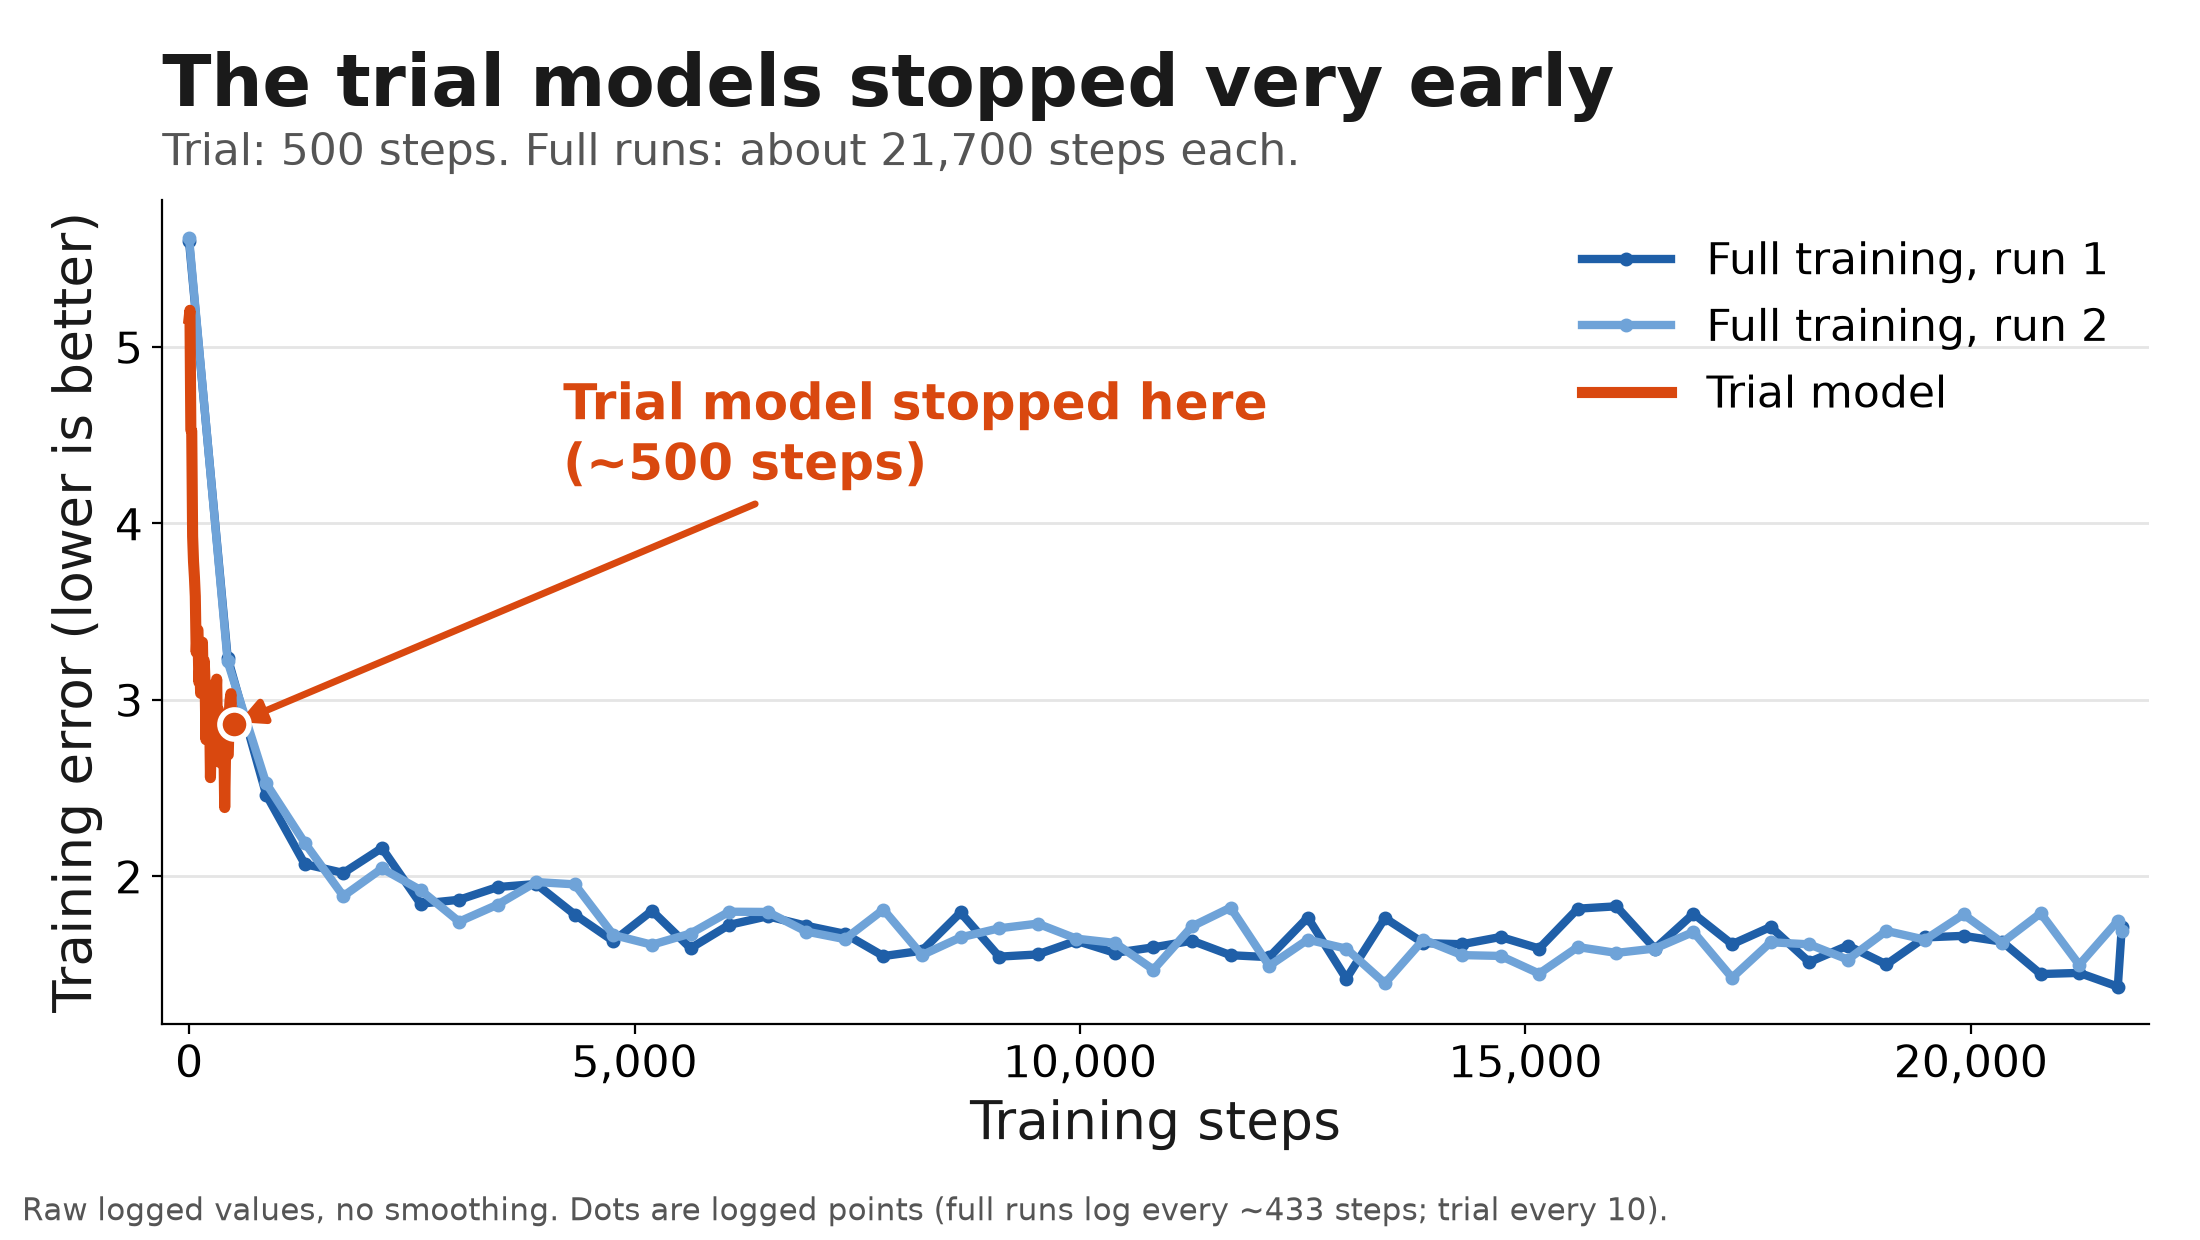
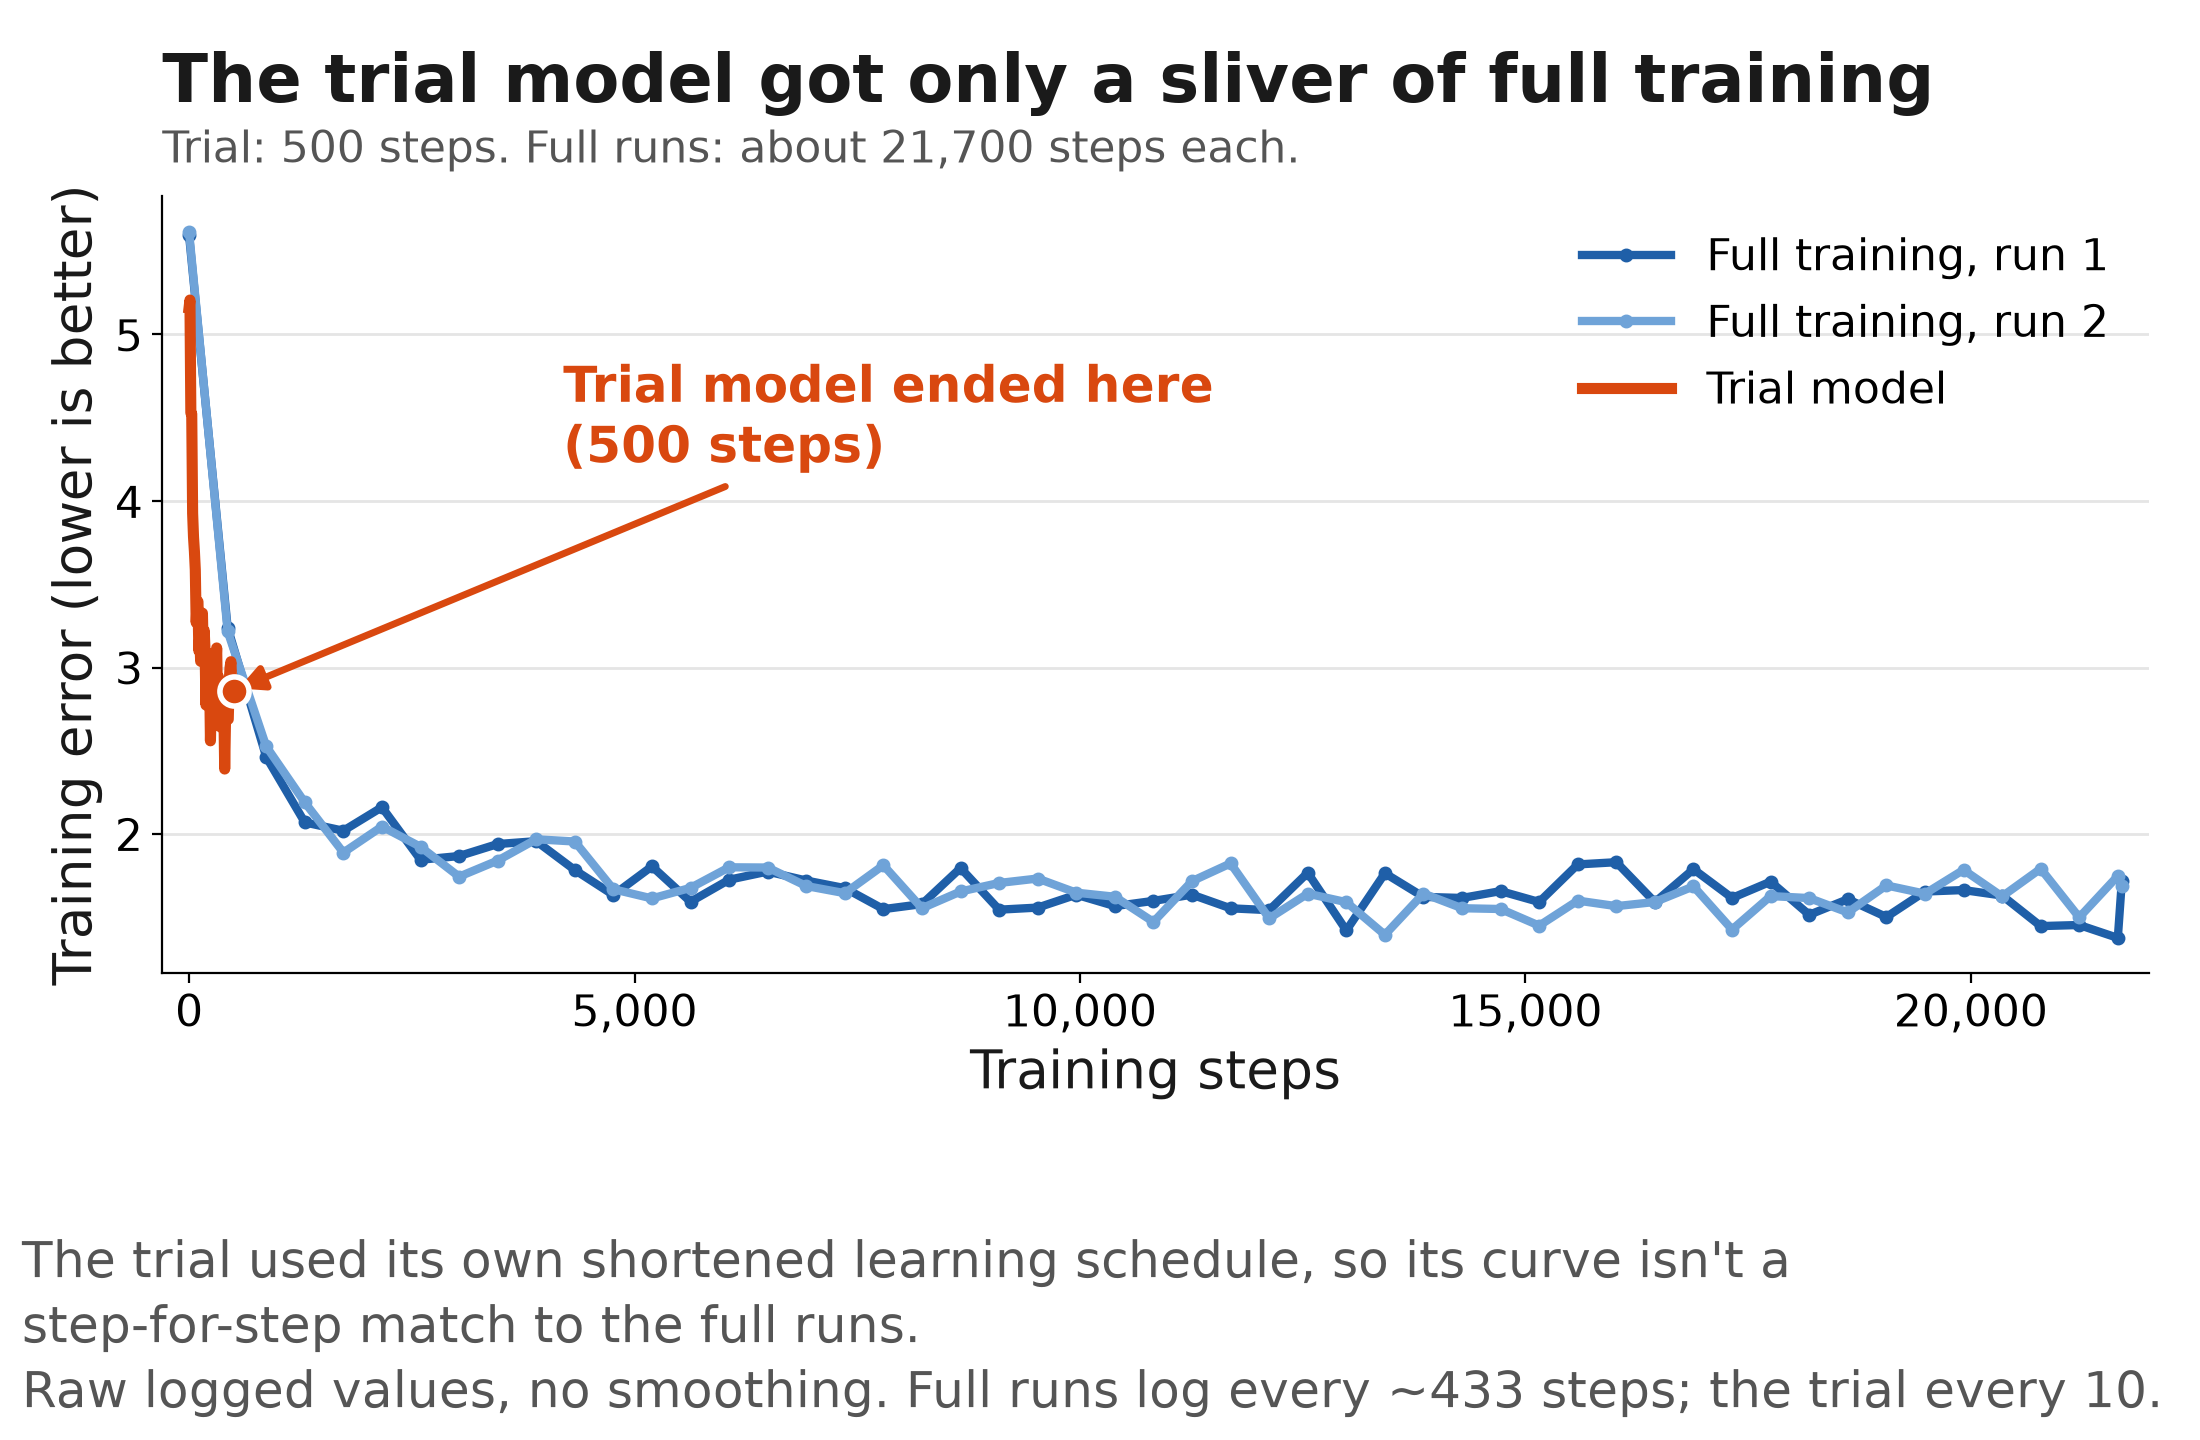
world-model-stacking-encoders: training-curve figure wording fixes after review

diff --git a/world-model-stacking-encoders/src/plot_training_curve.py b/world-model-stacking-encoders/src/plot_training_curve.py
@@ -53,7 +53,7 @@ for k in ("full1", "full2"):
 
 BLUE, BLUE2, ORANGE, INK, GREY = "#1f5fa8", "#6fa3d8", "#d9480f", "#1a1a1a", "#555555"
 plt.rcParams.update({"font.size": 17, "font.family": "sans-serif"})
-fig, ax = plt.subplots(figsize=(11, 6.2), dpi=200)
+fig, ax = plt.subplots(figsize=(11, 7.2), dpi=200)
 fig.patch.set_facecolor("white")
 
 for key, col, lab in (("full1", BLUE, "Full training, run 1"), ("full2", BLUE2, "Full training, run 2")):
@@ -66,7 +66,7 @@ ax.scatter([ts], [tl], color=ORANGE, s=110, zorder=6, edgecolor="white", linewid
 ax.set_xlim(-300, 22000)
 ax.set_xlabel("Training steps", fontsize=19, color=INK)
 ax.set_ylabel("Training error (lower is better)", fontsize=19, color=INK)
-ax.set_title("The trial models stopped very early", fontsize=26, fontweight="bold", color=INK, loc="left", pad=34)
+ax.set_title("The trial model got only a sliver of full training", fontsize=24, fontweight="bold", color=INK, loc="left", pad=34)
 ax.text(0, 1.03, "Trial: 500 steps. Full runs: about 21,700 steps each.", transform=ax.transAxes,
         fontsize=16, color=GREY, va="bottom")
 for s in ("top", "right"):
@@ -78,13 +78,16 @@ ax.set_xticks([0, 5000, 10000, 15000, 20000])
 ax.set_xticklabels(["0", "5,000", "10,000", "15,000", "20,000"])
 
 ymax = max(p[1] for k in data for p in data[k])
-ax.annotate("Trial model stopped here\n(~500 steps)", xy=(ts, tl), xytext=(4200, ymax * 0.80),
+ax.annotate("Trial model ended here\n(500 steps)", xy=(ts, tl), xytext=(4200, ymax * 0.80),
             fontsize=18, fontweight="bold", color=ORANGE, va="center",
             arrowprops=dict(arrowstyle="-|>", color=ORANGE, lw=2.5))
 ax.legend(loc="upper right", fontsize=16, frameon=False)
 
-fig.text(0.01, 0.01, "Raw logged values, no smoothing. Dots are logged points (full runs log every ~433 steps; trial every 10).",
-         fontsize=11, color=GREY, ha="left", va="bottom")
-fig.tight_layout(rect=(0, 0.03, 1, 1))
+fig.text(0.01, 0.01,
+         "The trial used its own shortened learning schedule, so its curve isn't a\n"
+         "step-for-step match to the full runs.\n"
+         "Raw logged values, no smoothing. Full runs log every ~433 steps; the trial every 10.",
+         fontsize=18, color=GREY, ha="left", va="bottom", linespacing=1.3)
+fig.tight_layout(rect=(0, 0.2, 1, 1))
 fig.savefig(OUT, dpi=200, facecolor="white")
 print("wrote", OUT)
